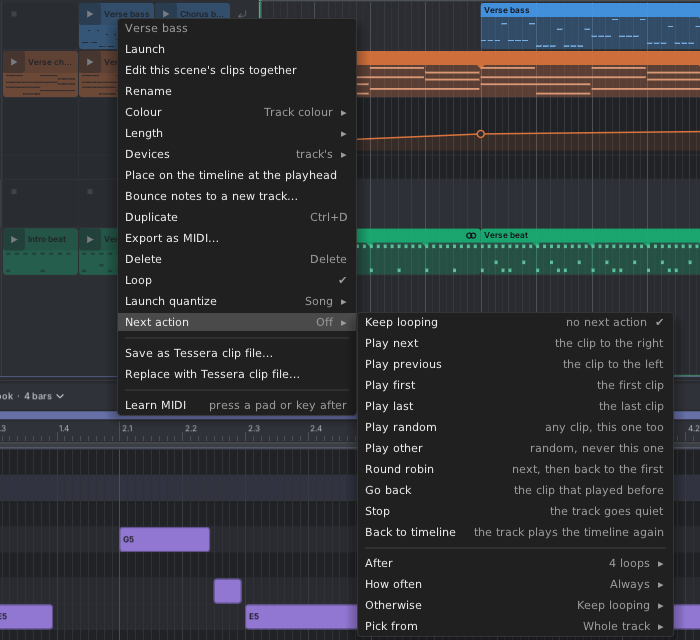
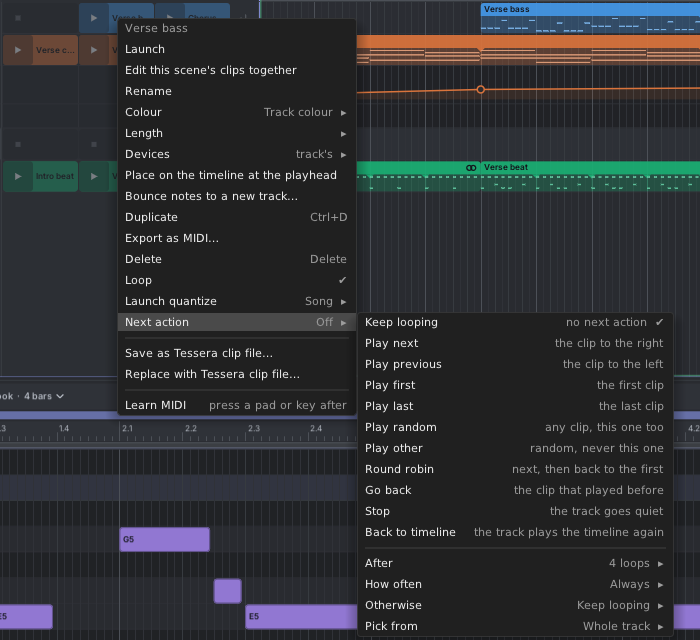
Send a clip back to its track's devices when its own chain is emptied, and make new tracks 32 px so slots are one line

diff --git a/src/model/DeviceCommands.cpp b/src/model/DeviceCommands.cpp
@@ -334,6 +334,22 @@ CommandPtr addDevice(const Song& song, ChainOwner owner, DeviceType type, int in
     });
 }
 
+namespace {
+
+/// A clip whose own chain an edit emptied (no device, no modulator left) plays through its track's devices again,
+/// instead of playing dry with a chain that has nothing in it (docs/DECISIONS.md §189). Clips that were already empty
+/// before the edit are left alone.
+void dropEmptiedChains(const Song& before, Song& work) {
+    for (auto& [id, clip] : work.clips) {
+        const Clip* was = before.findClip(id);
+        if (clip.hasOwnChain && clip.devices.empty() && clip.modulators.empty() && was &&
+            (!was->devices.empty() || !was->modulators.empty()))
+            clip.hasOwnChain = clip.playsOwnChain = false;
+    }
+}
+
+} // namespace
+
 CommandPtr removeDevice(const Song& song, DeviceId id) {
     if (!findDevice(song, id))
         return nullptr;
@@ -341,6 +357,7 @@ CommandPtr removeDevice(const Song& song, DeviceId id) {
         std::vector<Device>& chain = *chainOf(work, id);
         chain.erase(std::find_if(chain.begin(), chain.end(), [&](const Device& d) { return d.id == id; }));
         pruneRoutes(work);
+        dropEmptiedChains(song, work);
         return true;
     });
 }
@@ -373,6 +390,7 @@ CommandPtr moveDevice(const Song& song, DeviceId id, ChainOwner to, int index) {
             at--;
         insertDevice(toChain, at, std::move(device));
         pruneRoutes(work);
+        dropEmptiedChains(song, work);
         return true;
     });
 }
@@ -855,6 +873,7 @@ CommandPtr removeModulator(const Song& song, ModulatorId id) {
         std::vector<Modulator>& list = *modulatorsAt(work, place);
         list.erase(std::find_if(list.begin(), list.end(), [&](const Modulator& m) { return m.id == id; }));
         pruneRoutes(work);
+        dropEmptiedChains(song, work);
         return true;
     });
 }

diff --git a/src/ui/editing/DeviceActions.cpp b/src/ui/editing/DeviceActions.cpp
@@ -678,8 +678,28 @@ void openDeviceMenu(EditorContext& ctx, DeviceId id, std::function<void(rack::ui
     menu->addChild(new rack::ui::MenuSeparator);
     menu->addChild(rack::createMenuItem("Delete", "Delete", [c, id] {
         if (TesseraModule* mod = c->module())
-            mod->perform(removeDevice(mod->song(), id));
+            performChainEdit(*c, removeDevice(mod->song(), id));
     }));
+}
+
+void performChainEdit(EditorContext& ctx, CommandPtr command, const std::string& done) {
+    TesseraModule* m = ctx.module();
+    if (!m || !command)
+        return;
+    std::vector<ClipId> own;
+    for (const auto& [id, clip] : m->song().clips)
+        if (clip.hasOwnChain)
+            own.push_back(id);
+    m->perform(std::move(command));
+    std::string text = done;
+    for (ClipId id : own)
+        if (const Clip* clip = m->song().findClip(id); clip && !clip->hasOwnChain) {
+            text += (text.empty() ? "" : " · ") + (clip->name.empty() ? std::string("The clip") : clip->name) +
+                    " plays through the track's devices again";
+            break;
+        }
+    if (!text.empty())
+        ctx.toast(text);
 }
 
 void addDrift(EditorContext& ctx, const ParamRef& ref, bool bounce) {
@@ -908,7 +928,7 @@ void openModulatorMenu(EditorContext& ctx, ModulatorId id, std::function<void(ra
     menu->addChild(new rack::ui::MenuSeparator);
     menu->addChild(rack::createMenuItem("Remove", "", [c, id] {
         if (TesseraModule* m2 = c->module()) {
-            m2->perform(removeModulator(m2->song(), id));
+            performChainEdit(*c, removeModulator(m2->song(), id));
             if (c->state().openModulator == id.value)
                 c->state().openModulator = 0;
             if (c->mappingModulator == id.value)

diff --git a/tests/clip_chain_tests.cpp b/tests/clip_chain_tests.cpp
@@ -101,6 +101,30 @@ TEST_SUITE("clip chains") {
         CHECK(r.song.tracks[0].modulators[0].routes[0].target.owner == r.arp.value);
     }
 
+    TEST_CASE("deleting the last device and modulator of a clip's own chain sends it back to the track's devices") {
+        Rig r;
+        applyChecked(r.song, playOwnChain(r.song, r.fill, idsFrom(r.song)));
+        std::vector<DeviceId> devices;
+        for (const Device& d : r.clip(r.fill).devices)
+            devices.push_back(d.id);
+        ModulatorId lfo = r.clip(r.fill).modulators.at(0).id;
+        for (DeviceId id : devices)
+            applyChecked(r.song, removeDevice(r.song, id));
+        // A modulator is still there: the chain is its own still (and plays no device).
+        CHECK(r.clip(r.fill).hasOwnChain);
+        Song beforeLast = r.song;
+        applyChecked(r.song, removeModulator(r.song, lfo));
+        CHECK_FALSE(r.clip(r.fill).hasOwnChain);
+        CHECK_FALSE(r.clip(r.fill).usesOwnChain());
+        // One undo brings the chain, and the clip's choice of it, back.
+        CommandPtr again = removeModulator(beforeLast, lfo);
+        Song undone = beforeLast;
+        again->apply(undone);
+        again->revert(undone);
+        CHECK(undone == beforeLast);
+        CHECK(undone.findClip(r.fill)->usesOwnChain());
+    }
+
     TEST_CASE("switching back to the track keeps the clip's chain, and switching again uses it") {
         Rig r;
         applyChecked(r.song, playOwnChain(r.song, r.fill, idsFrom(r.song)));

diff --git a/src/ui/views/DeviceStrip.cpp b/src/ui/views/DeviceStrip.cpp
@@ -496,7 +496,7 @@ class CardDrag : public DragGesture {
         if (copy)
             m->perform(copyDevice(m->song(), id, to, at, m->ids()));
         else
-            m->perform(moveDevice(m->song(), id, to, at));
+            deviceActions::performChainEdit(ctx, moveDevice(m->song(), id, to, at));
     }
     void cancel() override { strip.dropIndex = -1; }
     std::string readout() const override { return copy ? "Copy here" : "Move here"; }
@@ -4247,8 +4247,7 @@ void DeviceStrip::deleteSelection(const char* verb) {
                 add(removeModulator(work, mod.id));
     if (all->empty())
         return;
-    m->perform(std::move(all));
-    ctx.toast(std::string(verb) + " " + items.label);
+    deviceActions::performChainEdit(ctx, std::move(all), std::string(verb) + " " + items.label);
     EditorState& st = ctx.state();
     st.stripDevices.clear();
     st.stripModulators.clear();

diff --git a/src/ui/editing/DeviceActions.hpp b/src/ui/editing/DeviceActions.hpp
@@ -66,6 +66,9 @@ void offerKeepRoll(EditorContext& ctx, std::string text, uint32_t roll, const st
 
 /// A device's menu; `top`, when set, adds items first (the strip's Copy, Paste, Duplicate and Delete).
 void openDeviceMenu(EditorContext& ctx, DeviceId device, std::function<void(rack::ui::Menu*)> top = nullptr);
+/// Performs a device or modulator edit; `done` is its toast. When the edit emptied a clip's own chain, the clip plays
+/// through its track's devices again (docs/DECISIONS.md §189), and the toast says so.
+void performChainEdit(EditorContext& ctx, CommandPtr command, const std::string& done = "");
 void openKnobMenu(EditorContext& ctx, const ParamRef& ref);
 /// "Drift per pass" on a motion knob: a Steps modulator on its track, set to Per pass and mapped four steps up the
 /// knob, either rising then falling back (`bounce`) or rising then starting again. One undo step.

diff --git a/src/ui/EditorState.hpp b/src/ui/EditorState.hpp
@@ -138,7 +138,7 @@ struct EditorState {
     std::set<uint64_t> foldedMixerGroups; // groups whose tracks' strips are folded in the mixer, session only
     std::set<uint64_t> foldedGroups;                  // by GroupId value
     std::set<uint64_t> openAutomation;                // tracks showing their automation lanes, by TrackId value
-    static constexpr double kDefaultTrackHeight = 48; // for tracks never resized
+    static constexpr double kDefaultTrackHeight = 32; // for tracks never resized: one line of 30 px slots (§188)
     /// How tall a track's row is: what it was dragged to, else the default.
     double trackHeight(TrackId id) const {
         auto it = trackHeights.find(id.value);

diff --git a/src/ui/Theme.hpp b/src/ui/Theme.hpp
@@ -202,7 +202,7 @@ constexpr float kPartlyOutline = 1.3f; // the panel's TIMELINE while some tracks
 // over its notes; shorter slots keep everything on one line.
 constexpr float kSlotGap = 1;
 constexpr float kSlotTitleBar = 22;
-constexpr float kSlotTitleBarFrom = 40;
+constexpr float kSlotTitleBarFrom = 52; // a usual (32 px) track's slots stay one line
 constexpr float kSlotTitleBarShade = 0.16f; // the bar's darkening over the clip colour
 // A clip its playheads play draws one band per playhead instead of its notes, a block wherever the playhead is over a
 // note, sampled every kPlayheadPathStep pixels: with lines between the bands from kPlayheadBand tall each, thin bands

diff --git a/src/model/DeviceCommands.hpp b/src/model/DeviceCommands.hpp
@@ -67,6 +67,8 @@ class ReplaceChains : public Command {
 CommandPtr addDevice(const Song& song, ChainOwner owner, DeviceType type, int index, const NextId& nextId,
                      DeviceId* added = nullptr);
 /// Removes a device with its modulators, and every route that pointed at them.
+/// Removing (or moving away) the last device and modulator of a clip's own chain sends the clip back to its track's
+/// devices, in the same undo step.
 CommandPtr removeDevice(const Song& song, DeviceId id);
 /// Moves a device to `index` in a chain (the same or another, a track's or a clip's own). Its own modulators move
 /// along; routes that end up out of reach are removed.

diff --git a/docs/DECISIONS.md b/docs/DECISIONS.md
@@ -3213,12 +3213,24 @@ Design: docs/design/TIES_VOICES.md, agreed with the user on the canvas boards "T
 - **User request**: "why is there a gap between tracks in the clip launcher, can't that be more like a grid?" Rows
   are track rows (48 px by default) but slots stopped at 30 px; an automation lane left a blank band.
 - **Agreed from mockups** (canvas boards 4 and 5): a slot fills its row, kSlotGap (1 px) from its neighbours, with no
-  height cap. From kSlotTitleBarFrom (40 px) a slot has a title bar kSlotTitleBar (22 px) high with the launch button
+  height cap. From kSlotTitleBarFrom (52 px) a slot has a title bar kSlotTitleBar (22 px) high with the launch button
   and the name, and its notes take the full width below, as timeline clips look; shorter slots keep one line. A
-  square button in the corner of a tall slot (board 5, A) was turned down: it left a hole under it. The launch button
-  is 22 px in the title bar (it was the 30 px slot height).
+  square button in the corner of a tall slot (board 5, A) was turned down: it left a hole under it.
+- **Default track height 32 px** (was 48): the user showed the look they wanted, one line of slots like the old 30 px
+  ones, as a grid. A 48 px row made 46 px slots whose square launch button squeezed the name. Tracks never resized
+  (old patches too) take the new default; resized ones keep their height. Under 40 px an audio track's header hides
+  its level line, as it did for short tracks before.
 - **Lane rows** keep their height so the clips line up with the timeline, drawn as a quiet band with the column lines
   running through.
 - **Own-devices mark** (board 6, the user read the old dot as MIDI): the same device card as wide slots, at 12 × 9 px
   on narrow ones, at the name row's right end (the name gives up its room); a tooltip says what it means, on or off.
   The dot is gone.
+
+## 189. Emptying a clip's own chain sends it back to the track's devices (18 Nov)
+
+- **User report**: after deleting a clip's devices the own-devices card still showed. Deleting them one by one left
+  an own chain with nothing in it, which plays dry (skips the track's devices): a hidden state.
+- **Rule**: removing or moving away the last device and modulator of a clip's own chain also turns the clip's own
+  chain off (`hasOwnChain` false) in the same undo step, so the clip plays the track's devices and the card goes; a
+  toast says "<clip> plays through the track's devices again". Devices ▸ Delete its own devices did this already.
+  A clip can no longer play dry on purpose through an empty chain; an explicit choice for that can come later.

diff --git a/docs/QA.md b/docs/QA.md
@@ -171,10 +171,13 @@ Run before each milestone commit. Items marked *(later)* become testable in the 
 - [ ] Back to timeline while the clips play: Plays on Clips, clips playing; click one track's ↩. On the next bar its
       timeline row lights up and plays while the other rows stay dim and their clips play on. Launch a clip on it:
       it leaves the timeline. Switch Plays to Timeline and back: no track is on the timeline any more.
-- [ ] The clips grid (DECISIONS §188): slots fill their rows with 1 px lines; a usual track's slots have a title bar
-      (▶ and name) over their notes; make a track taller: its slots grow and show more notes; an automation lane
+- [ ] The clips grid (DECISIONS §188): new tracks are 32 px; slots fill their rows with 1 px lines, one line each
+      (▶, name, notes); make a track about twice as tall: its slots get a title bar over their notes; an automation lane
       makes a quiet band the column lines cross. A clip with its own devices shows the small device card; hover it
       for its tooltip.
+- [ ] Own devices emptied (DECISIONS §189): give a clip its own devices, delete them one by one on the strip
+      (modulators too): with the last one the card leaves its slot, a toast says it plays the track's devices again,
+      and one undo brings its own chain back.
 - [ ] Clips with nothing launched (DECISIONS §186): from Timeline, switch to Clips: the panel's picked scene starts on
       the next launch line. Stopped in Clips with every track stopped, press Play (panel, editor, RUN): the picked
       scene starts with the transport. With clips launched, Play starts just those.

diff --git a/docs/manual/05-clips-and-scenes.md b/docs/manual/05-clips-and-scenes.md
@@ -11,9 +11,10 @@ the scene's ▶ and name on top.
 
 ![Clips playing: the Chorus scene is running](images/clips-playing.png)
 
-The clips form a grid: each slot fills its track's row, so a taller track has taller slots. A slot of a usual or
-taller track has a title bar, as a clip on the timeline does: ▶ and the name on top, its notes in miniature below.
-A very short track keeps everything on one line.
+The clips form a grid: each slot fills its track's row. At the usual height a slot is one line: ▶, the name and
+its notes in miniature. Make a track taller (drag the bottom edge of its header) and its slots grow with it: from
+about twice the usual height they get a title bar, as a clip on the timeline has, with ▶ and the name on top and
+the notes across the whole slot below.
 
 A slot can look like this:
 
@@ -25,7 +26,7 @@ A slot can look like this:
 | Blinking yellow ▶ | Waiting to start at the next launch line. |
 | Red | Recording into this slot. |
 
-![Chorus queued: its triangles blink yellow until the next bar](images/clips-queued.png)
+![Verse queued: its triangles blink yellow until the next launch line](images/clips-queued.png)
 
 **F2** widens the clips to fill most of the song pane, for performing. Press it again to narrow them. You can also
 drag the clips' right edge. **Shift+wheel** scrolls through scenes.

diff --git a/docs/manual/13-devices.md b/docs/manual/13-devices.md
@@ -272,6 +272,10 @@ after the switch becomes **CLIP · Chorus chords**. Hover either half to be told
 track's devices"). Click **TRACK** to play through the track's devices again. The clip keeps its own, so you can
 switch back and forth while it plays to compare. Both are undoable.
 
+**Deleting them.** Delete the last of a clip's own devices and modulators, and the clip plays through the track's
+devices again; a short note says so, and one undo brings its own back. Right-click the clip → **Devices** →
+**Delete its own devices** removes them all at once.
+
 **The other chain.** The chain that isn't shown is folded into a dashed block at the end of the strip, listing its
 devices:
 
